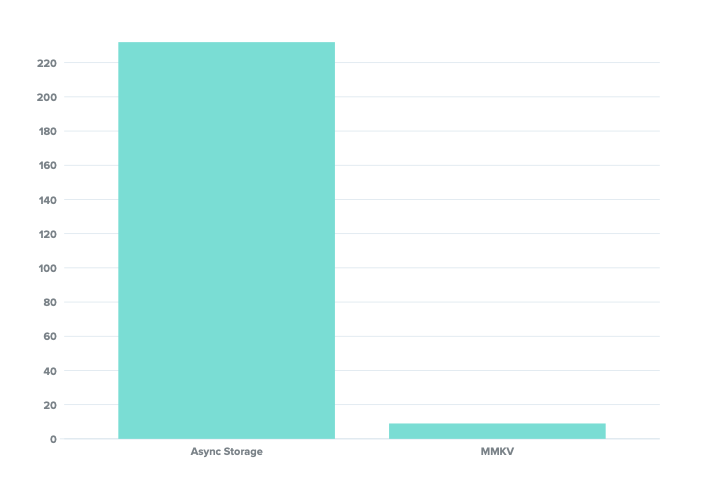
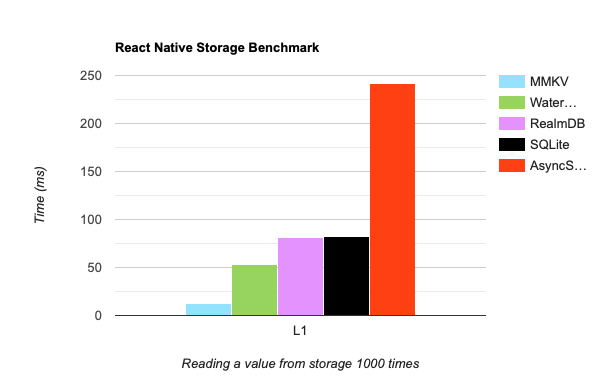
chore: Update Benchmark to direct to separate repo

diff --git a/example/src/App.tsx b/example/src/App.tsx
@@ -3,12 +3,6 @@ import * as React from 'react';
 import { StyleSheet, View, TextInput, Alert, Button, Text } from 'react-native';
 import { MMKV, useMMKVString } from 'react-native-mmkv';
 
-// Uncomment to run benchmark
-// import { benchmarkAgainstAsyncStorage } from './Benchmarks';
-// setTimeout(async () => {
-//   await benchmarkAgainstAsyncStorage();
-// }, 5000);
-
 const storage = new MMKV();
 
 export default function App() {

diff --git a/README.md b/README.md
@@ -52,11 +52,15 @@ react-native-mmkv is sponsored by **getstream.io**. <br/>
 
 ## Benchmark
 
+[StorageBenchmark](https://github.com/mrousavy/StorageBenchmark) compares popular storage libraries against each other by reading a value from storage for 1000 times:
+
 <div align="center">
-  <img src="./img/benchmark_1000_get.png" />
+  <a href="https://github.com/mrousavy/StorageBenchmark">
+    <img src="./img/benchmark_1000_get.png" />
+  </a>
   <p>
-    <b>AsyncStorage vs MMKV</b>: Reading a value from Storage 1000 times. <br/>
-    Measured in milliseconds on an iPhone 8, lower is better.
+    <b>MMKV vs other storage libraries</b>: Reading a value from Storage 1000 times. <br/>
+    Measured in milliseconds on an iPhone 11 Pro, lower is better. <br/>
   </p>
 </div>
 
